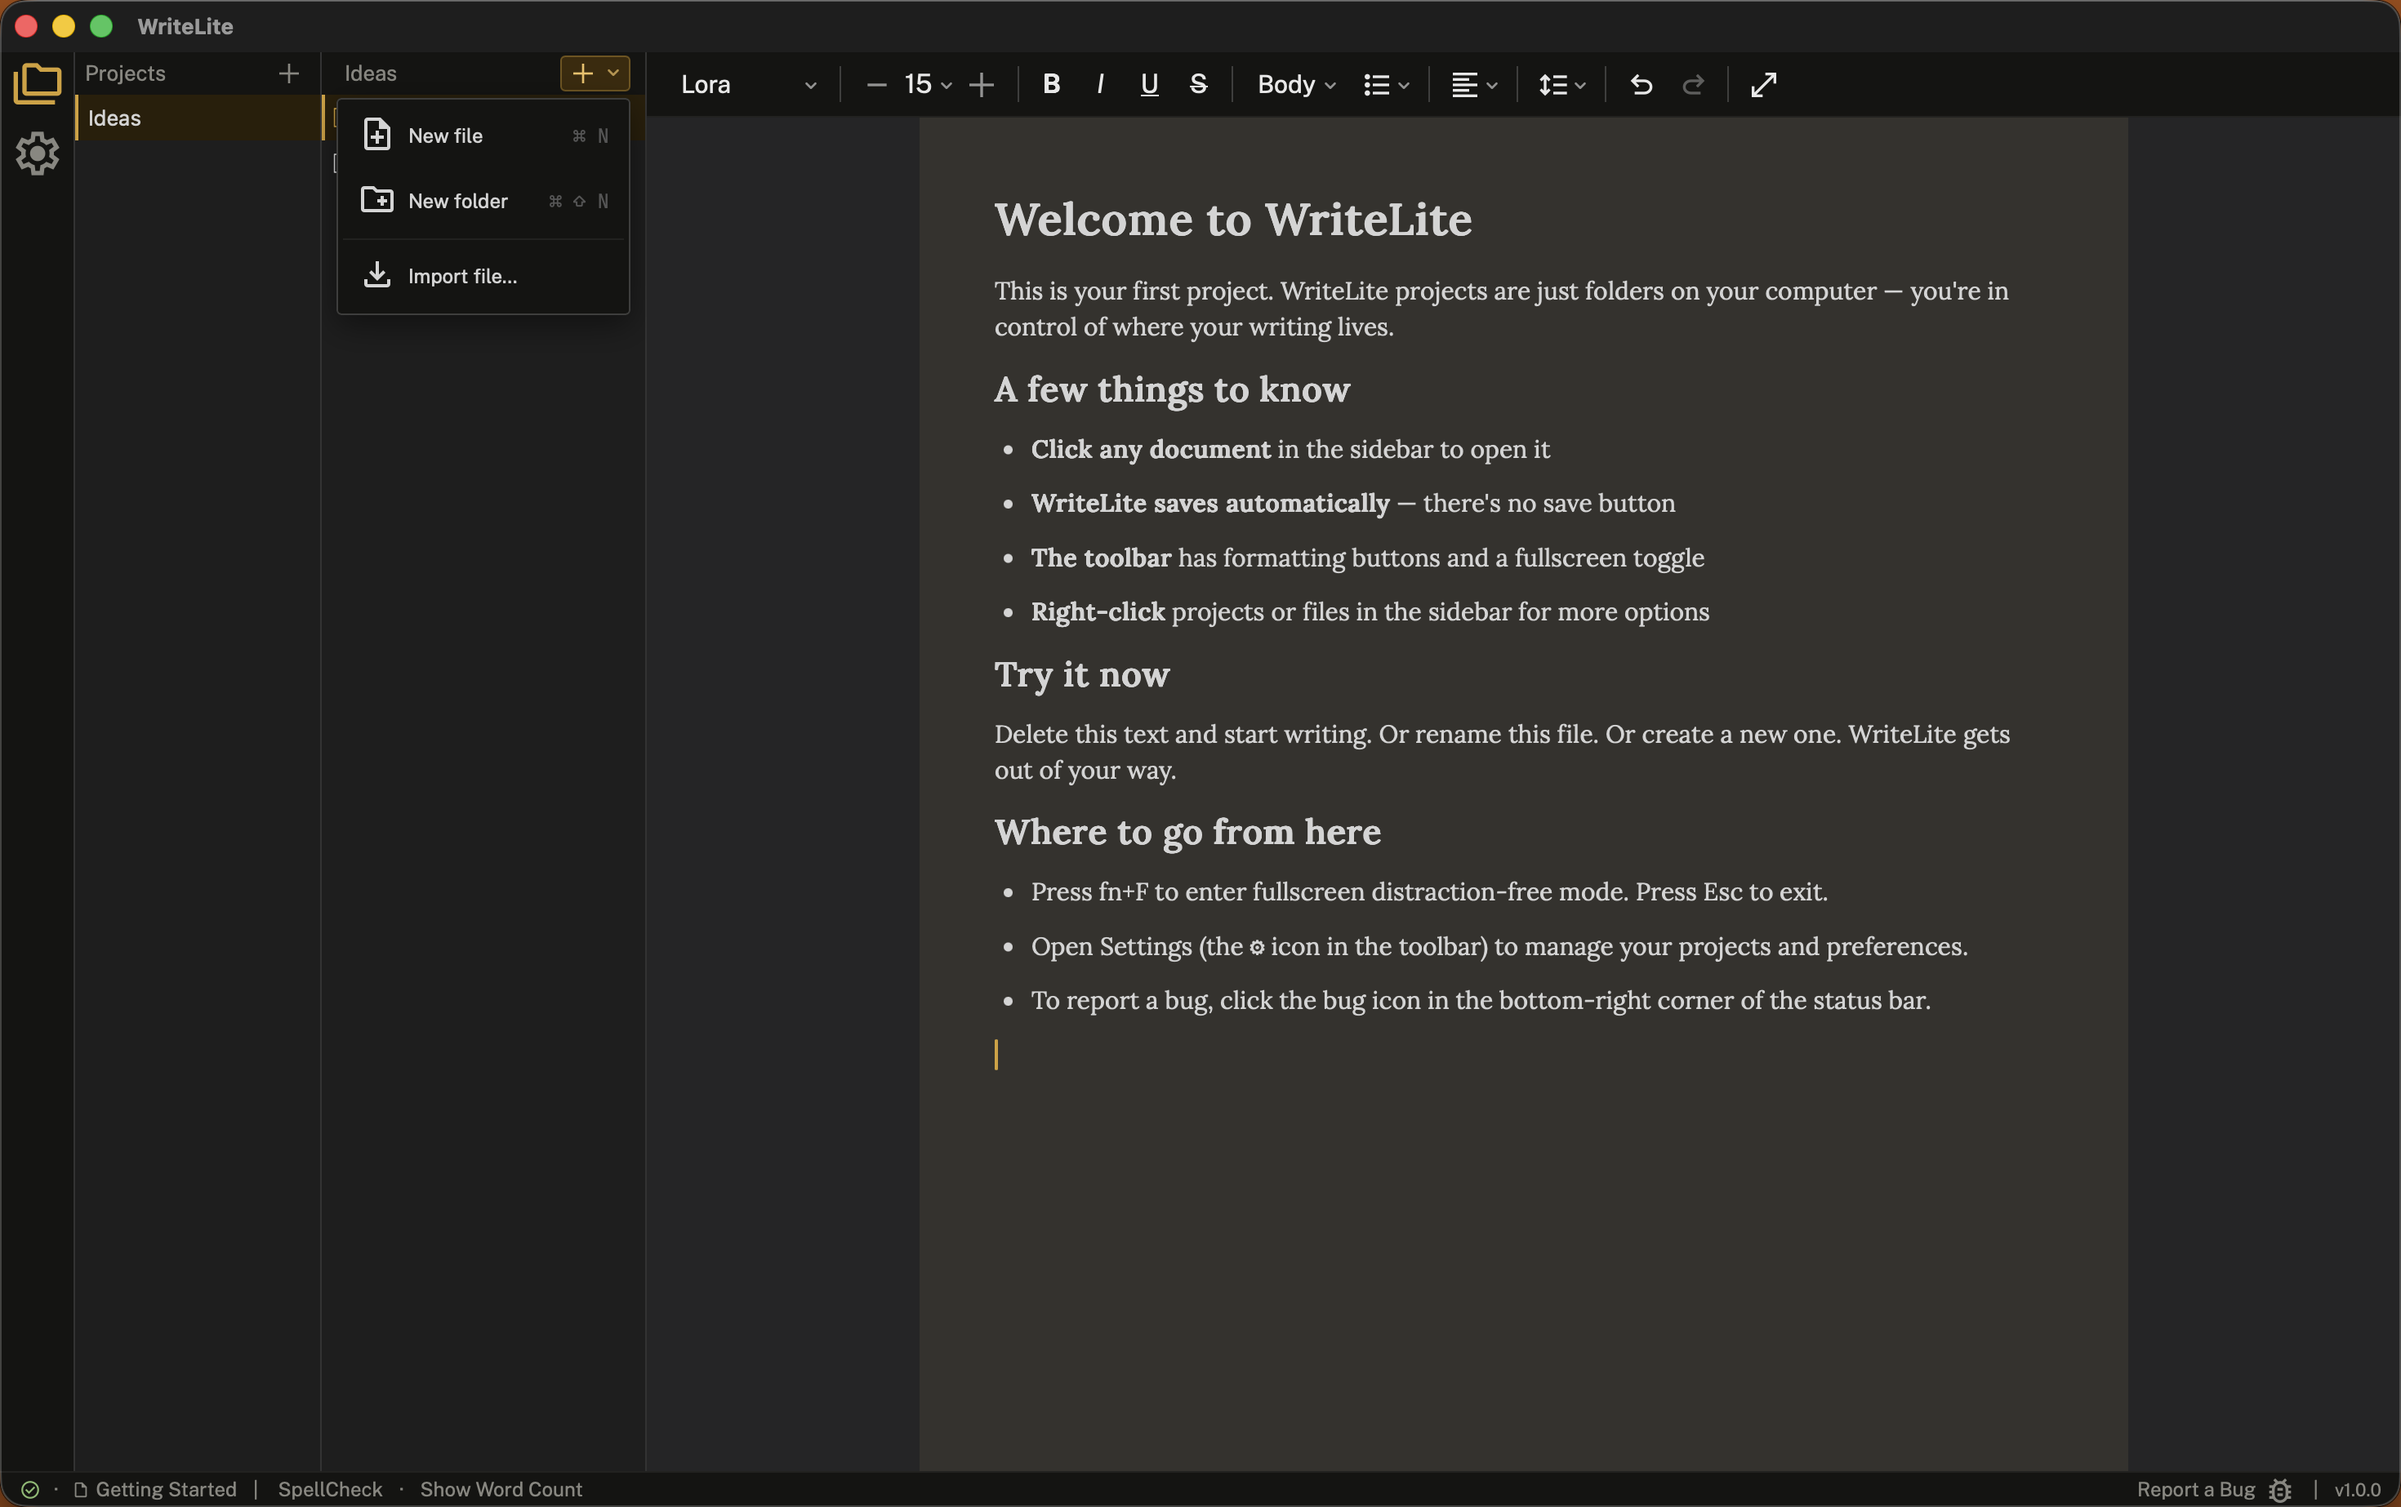
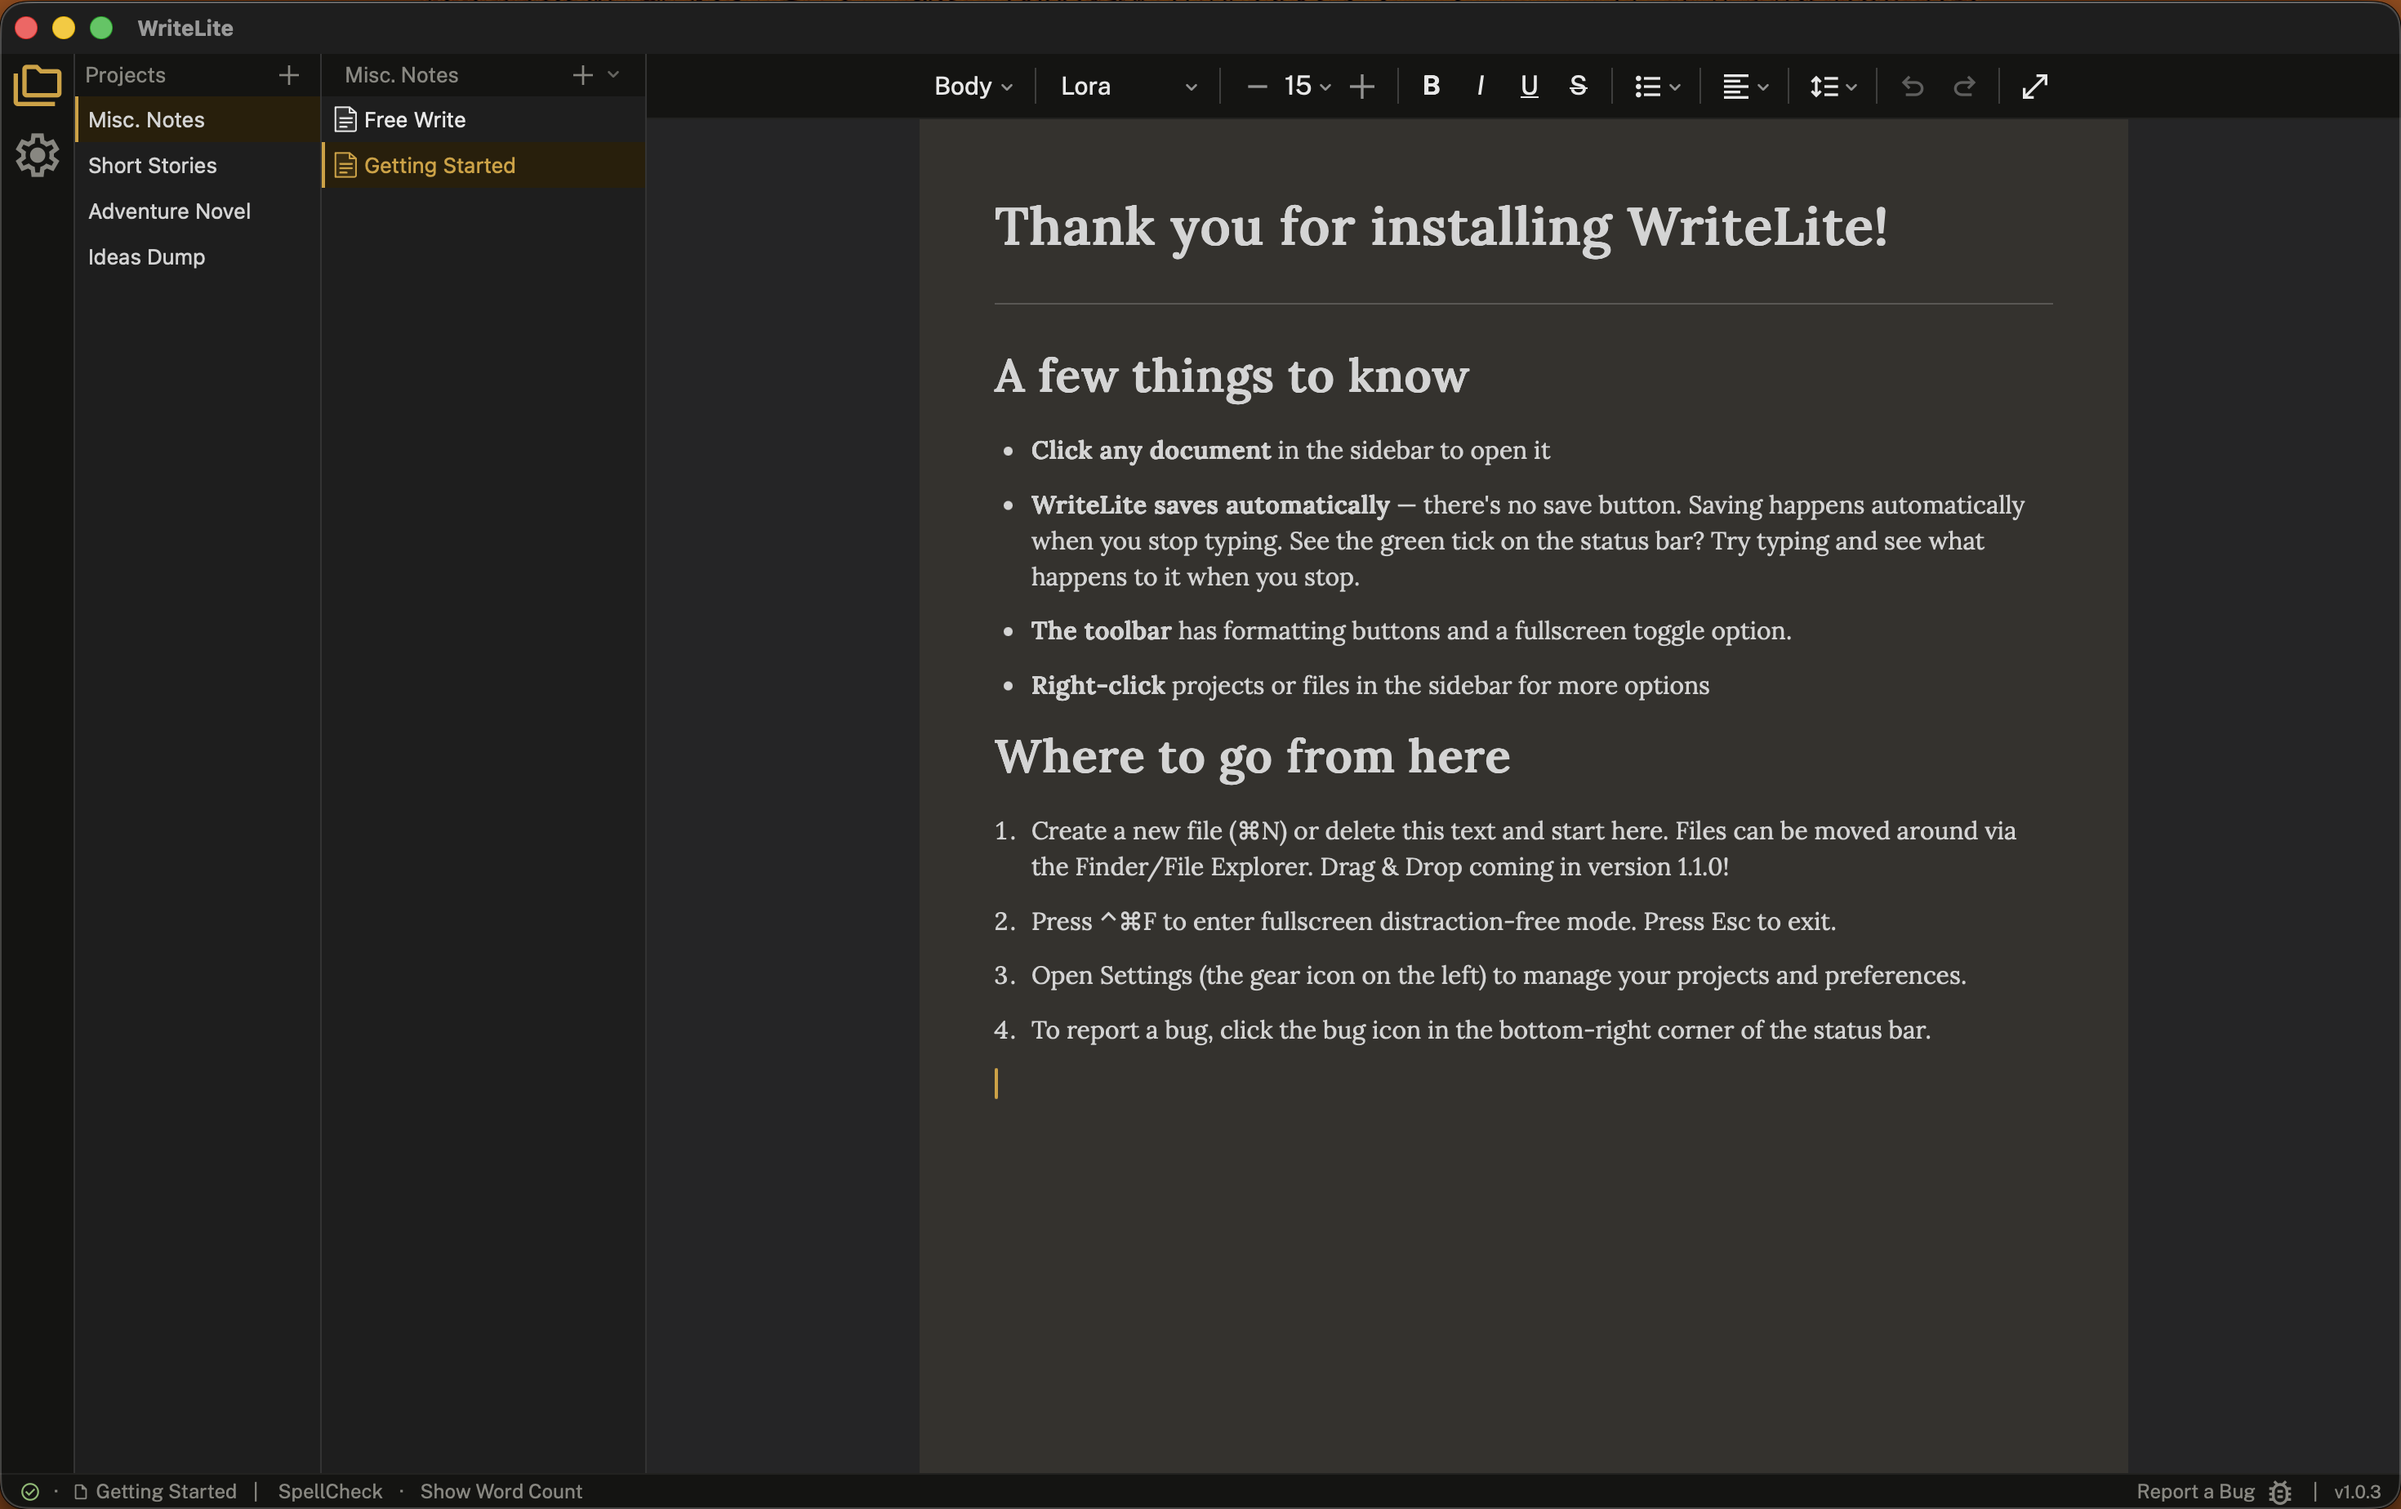
v1.0.3 published

diff --git a/site-config.js b/site-config.js
@@ -3,10 +3,10 @@
 (function () {
   // ── EDIT ON EACH RELEASE ─────────────────────────────
   var CONFIG = {
-    version: 'v1.0.2',
+    version: 'v1.0.3',
     downloads: {
-      windows: 'https://github.com/Neucrotic/writelite-release/releases/download/v1.0.2/WriteLite_1.0.2_x64-setup.exe',
-      mac:     'https://github.com/Neucrotic/writelite-release/releases/download/v1.0.2/WriteLite_1.0.2_aarch64.dmg'
+      windows: 'https://github.com/Neucrotic/writelite-release/releases/download/v1.0.3/WriteLite_1.0.3_x64-setup.exe',
+      mac:     'https://github.com/Neucrotic/writelite-release/releases/download/v1.0.3/WriteLite_1.0.3_aarch64.dmg'
     }
   };
   // ─────────────────────────────────────────────────────
